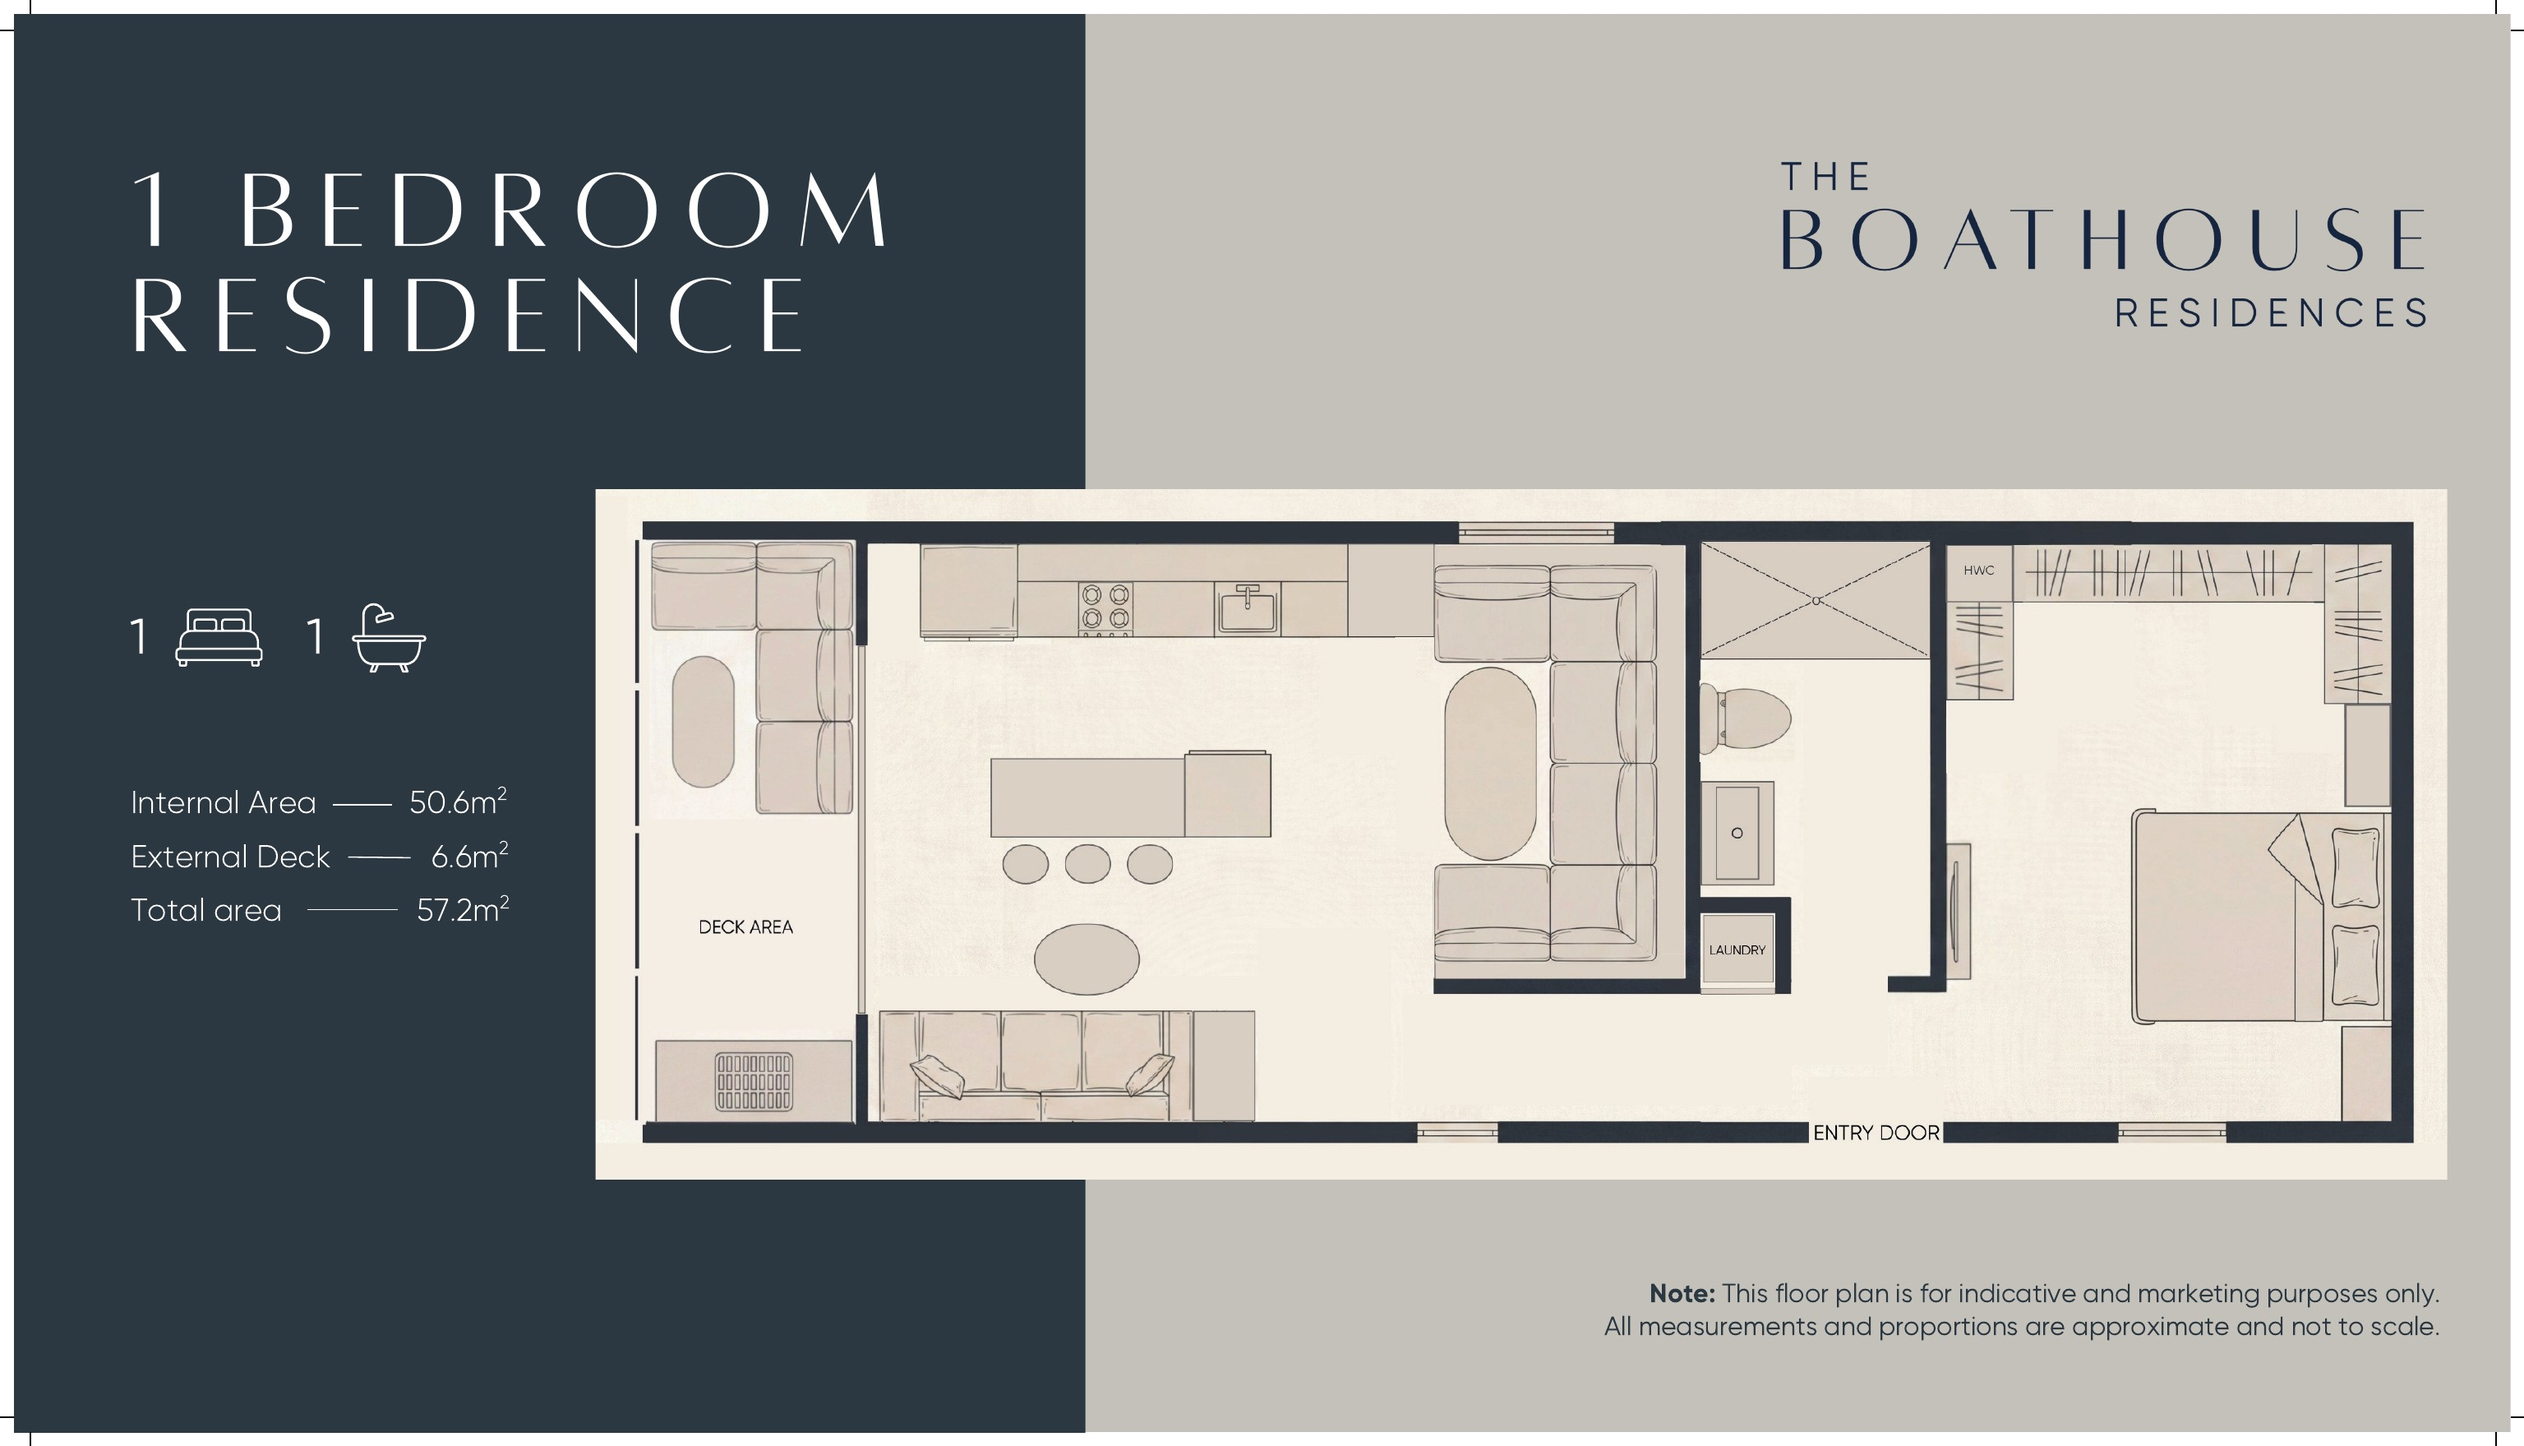
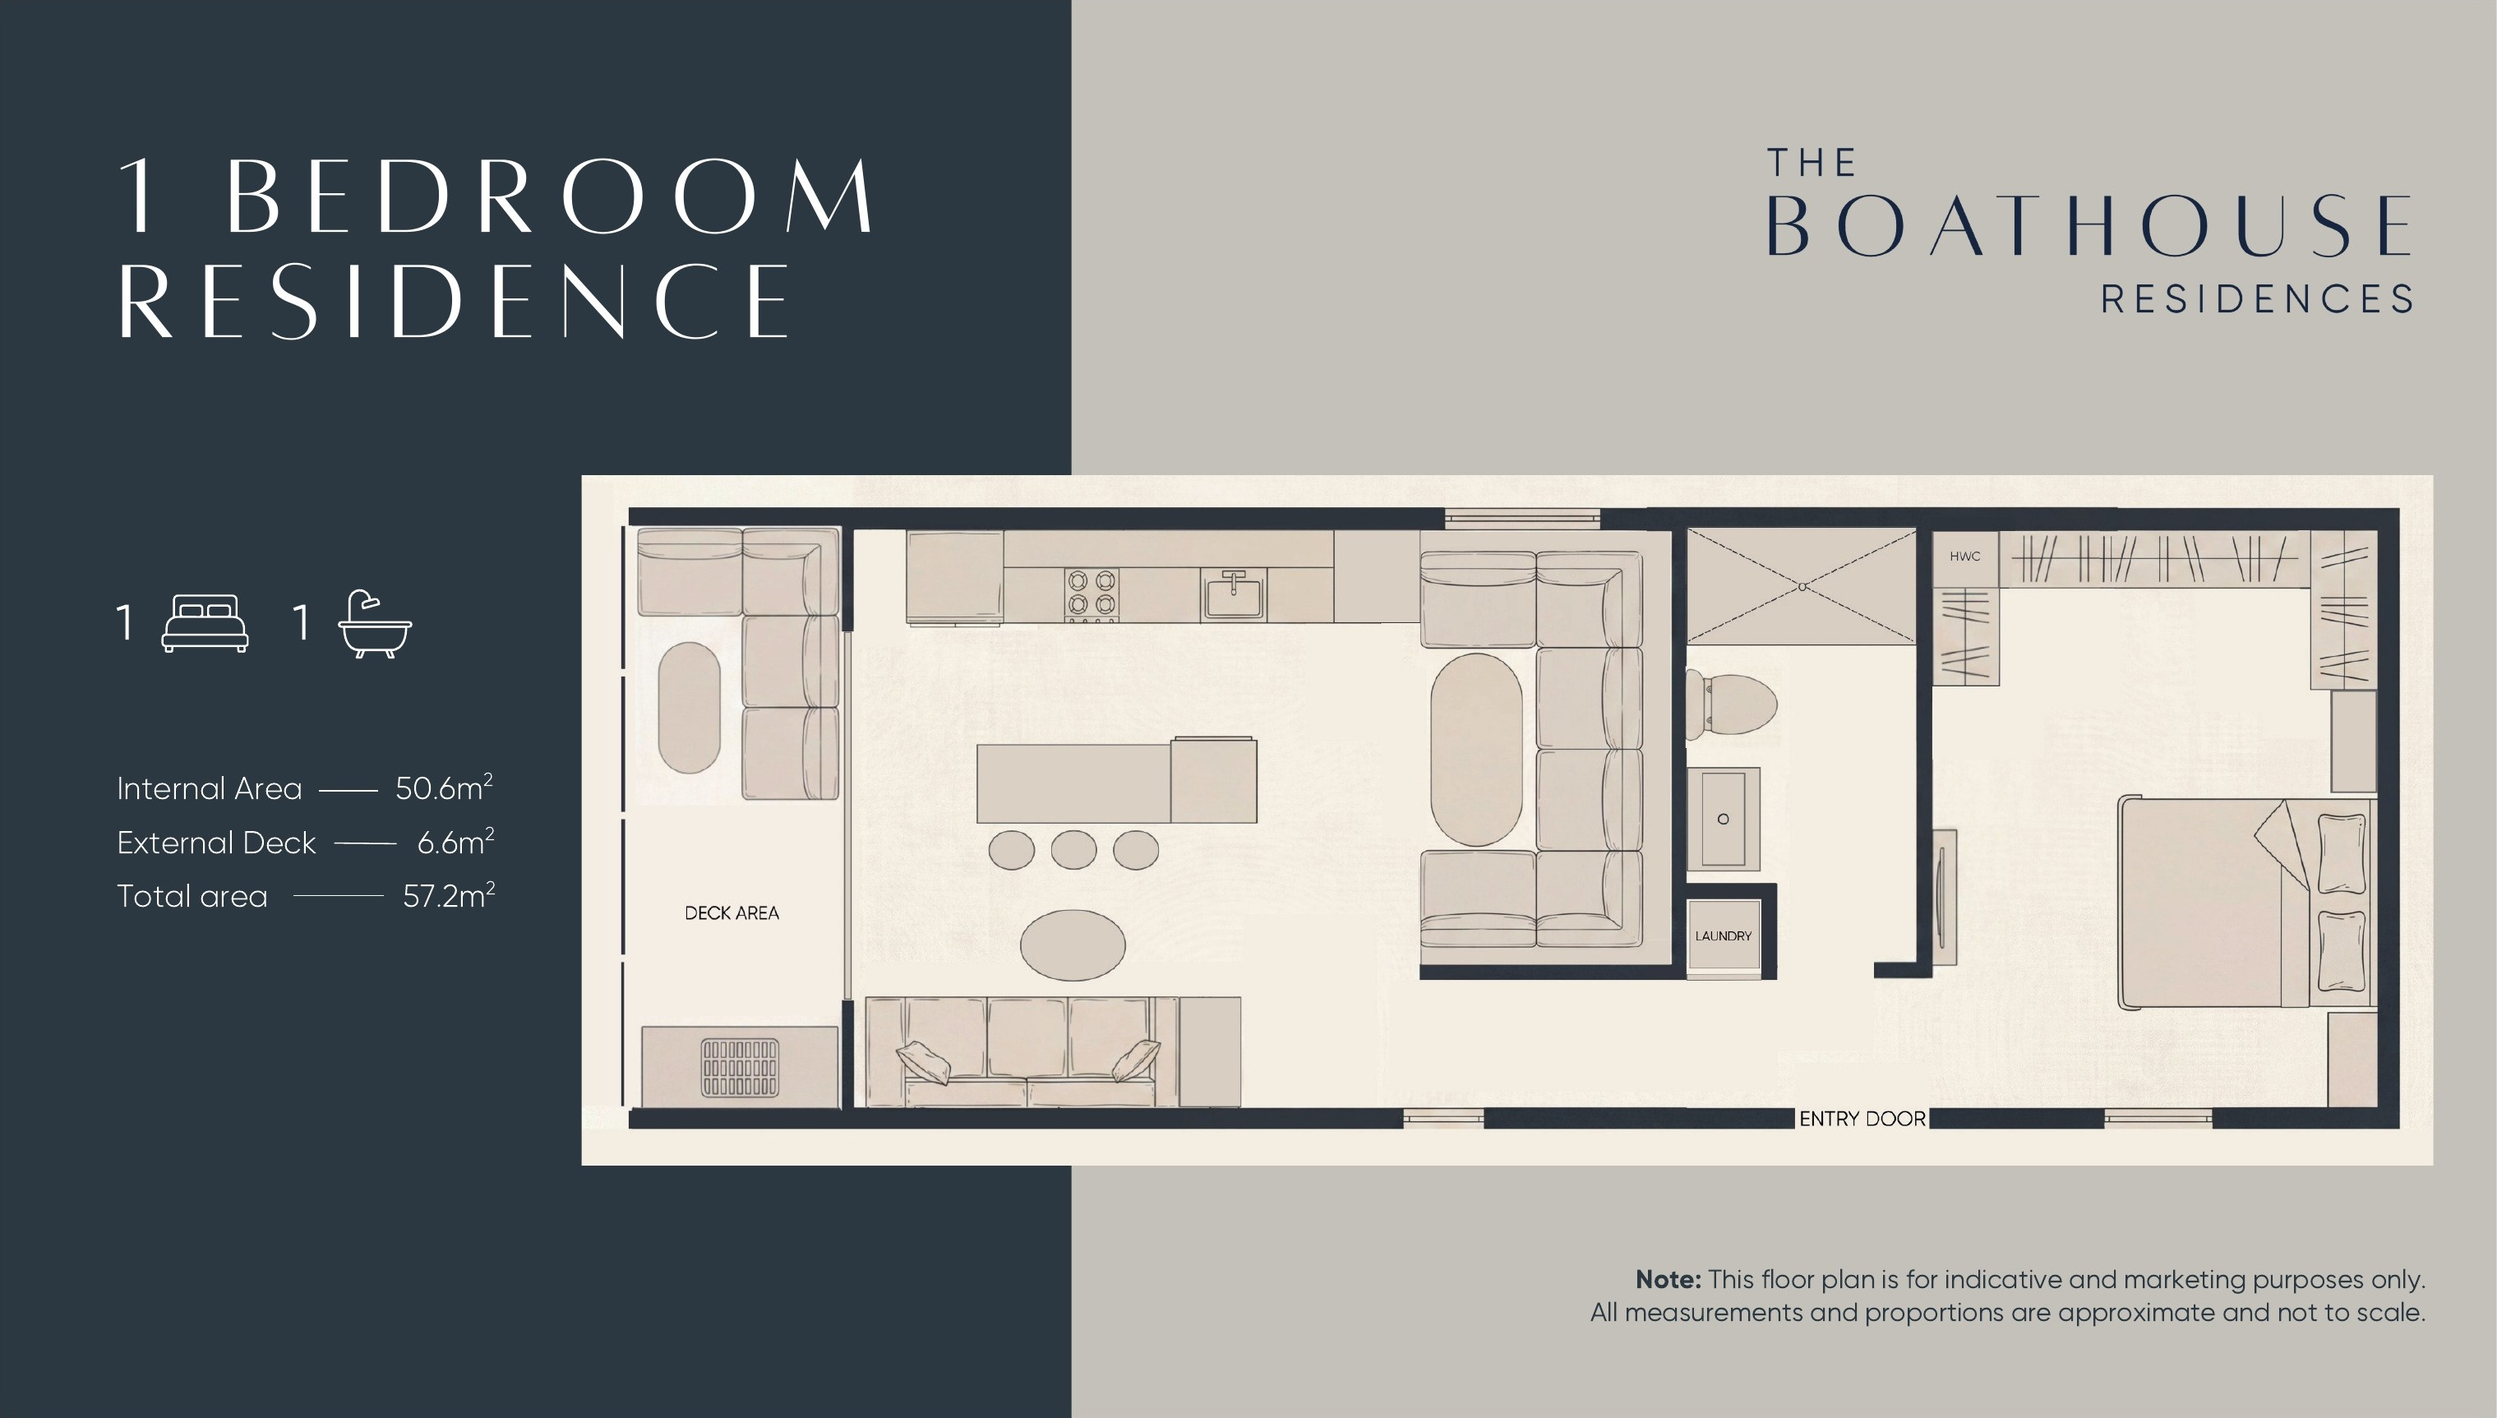
Client copy and floor-plan refinements
- Home: add full stop to "Designed with Intention." heading
- Vision / Lifestyle / Interiors enquiry CTAs: "Our sales team will
  welcome you" -> "Our sales team welcomes you"
- Lifestyle: replace em dash after "Discover Boathouse Residences" with
  a comma
- FAQ: reword maintenance answer from "biannual external maintenance
  programme" to "an external maintenance programme every 2 to 3 years"
- Floor plans (studio, one-bed, two-bed): crop off the white margin and
  corner crop marks so the artwork fills the frame edge to edge

diff --git a/src/components/sections/Faq.tsx b/src/components/sections/Faq.tsx
@@ -67,7 +67,7 @@ const groups: Group[] = [
       },
       {
         q: 'How are The Boathouse Residences cared for in a waterfront environment?',
-        a: 'Reflecting their marina setting, The Boathouse Residences will benefit from a biannual external maintenance programme inspired by a vessel’s regular “haul-out” process. This includes specialised cleaning and treatments to remove algae, salt, and environmental build-up, preserving the residences’ appearance and integrity over time.',
+        a: 'Reflecting their marina setting, The Boathouse Residences will benefit from an external maintenance programme every 2 to 3 years inspired by a vessel’s regular “haul-out” process. This includes specialised cleaning and treatments to remove algae, salt, and environmental build-up, preserving the residences’ appearance and integrity over time.',
       },
     ],
   },

diff --git a/src/app/lifestyle/page.tsx b/src/app/lifestyle/page.tsx
@@ -172,10 +172,10 @@ export default function LifestylePage() {
             <h2 className={headingClass}>Enquire Now</h2>
             <div className="flex max-w-[52rem] flex-col gap-[clamp(0.85rem,2vw,1.35rem)]">
               <p className={bodyClass}>
-                Discover Boathouse Residences — an address shaped by thoughtful design, a remarkable
+                Discover Boathouse Residences, an address shaped by thoughtful design, a remarkable
                 waterfront setting and a connection to the water that will endure.
               </p>
-              <p className={bodyClass}>Our sales team will welcome you to arrange a private viewing.</p>
+              <p className={bodyClass}>Our sales team welcomes you to arrange a private viewing.</p>
             </div>
           </ScrollReveal>
         </div>

diff --git a/src/app/page.tsx b/src/app/page.tsx
@@ -130,7 +130,7 @@ export default function HomePage() {
       <FlagStatement
         imageSrc="/images/lifestyle2.jpg"
         imageAlt="Waterfront lifestyle"
-        heading="Designed with Intention"
+        heading="Designed with Intention."
         body={[
           'The interiors of Boathouse Residences have been thoughtfully designed around a philosophy of restraint, balance and timeless design.',
           'Designed by Paula Herbert Studio, each residence reflects a considered approach to materiality, texture and form, where natural finishes, refined detailing and a timeless palette create spaces that feel both effortless and enduring.',

diff --git a/src/app/interiors/page.tsx b/src/app/interiors/page.tsx
@@ -236,7 +236,7 @@ export default function InteriorsPage() {
                 Discover Boathouse Residences where considered architecture, refined interiors and
                 waterfront living come together in perfect balance.
               </p>
-              <p className={bodyClass}>Our sales team will welcome you to arrange a private viewing.</p>
+              <p className={bodyClass}>Our sales team welcomes you to arrange a private viewing.</p>
             </div>
           </ScrollReveal>
         </div>

diff --git a/src/app/vision/page.tsx b/src/app/vision/page.tsx
@@ -155,7 +155,7 @@ export default function VisionPage() {
                 in balance beside the water.
               </p>
               <p className={visionSectionBodyClass}>
-                Our sales team will welcome you to arrange a private viewing.
+                Our sales team welcomes you to arrange a private viewing.
               </p>
             </div>
           </ScrollReveal>
